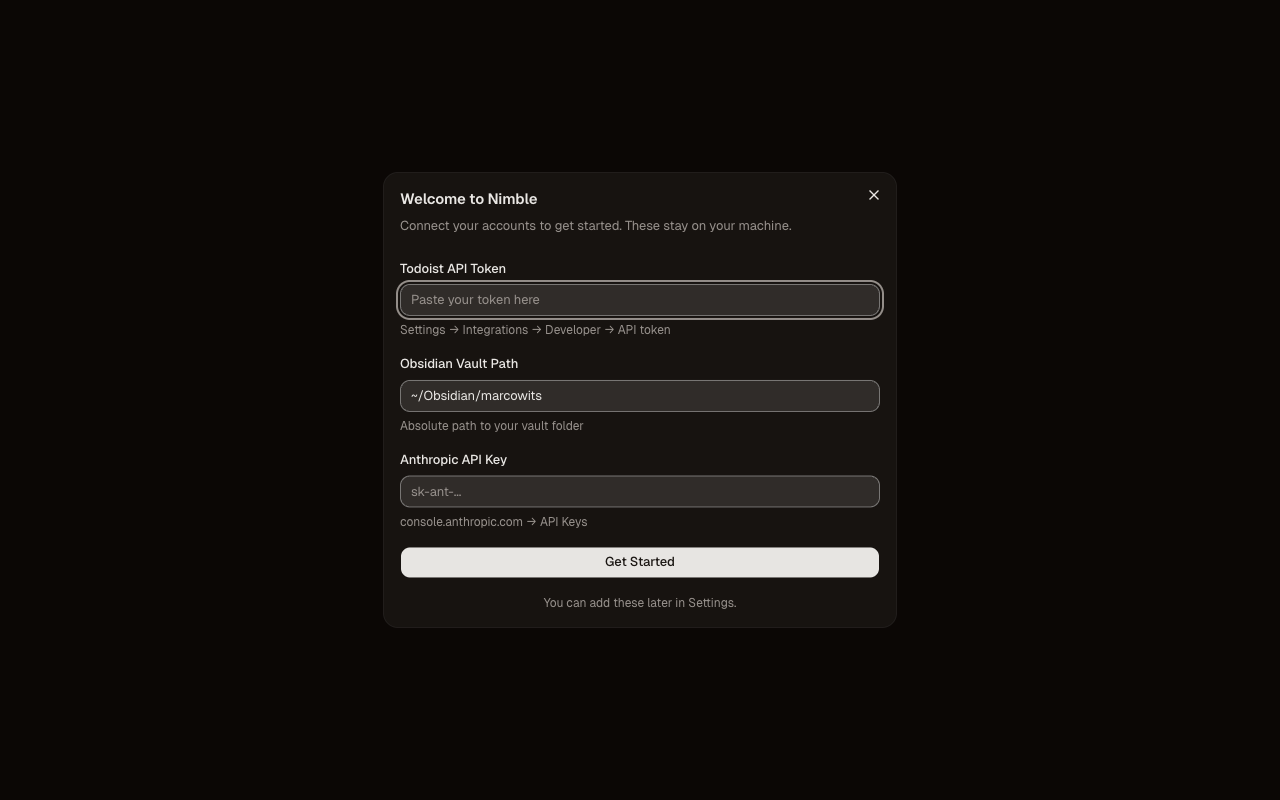
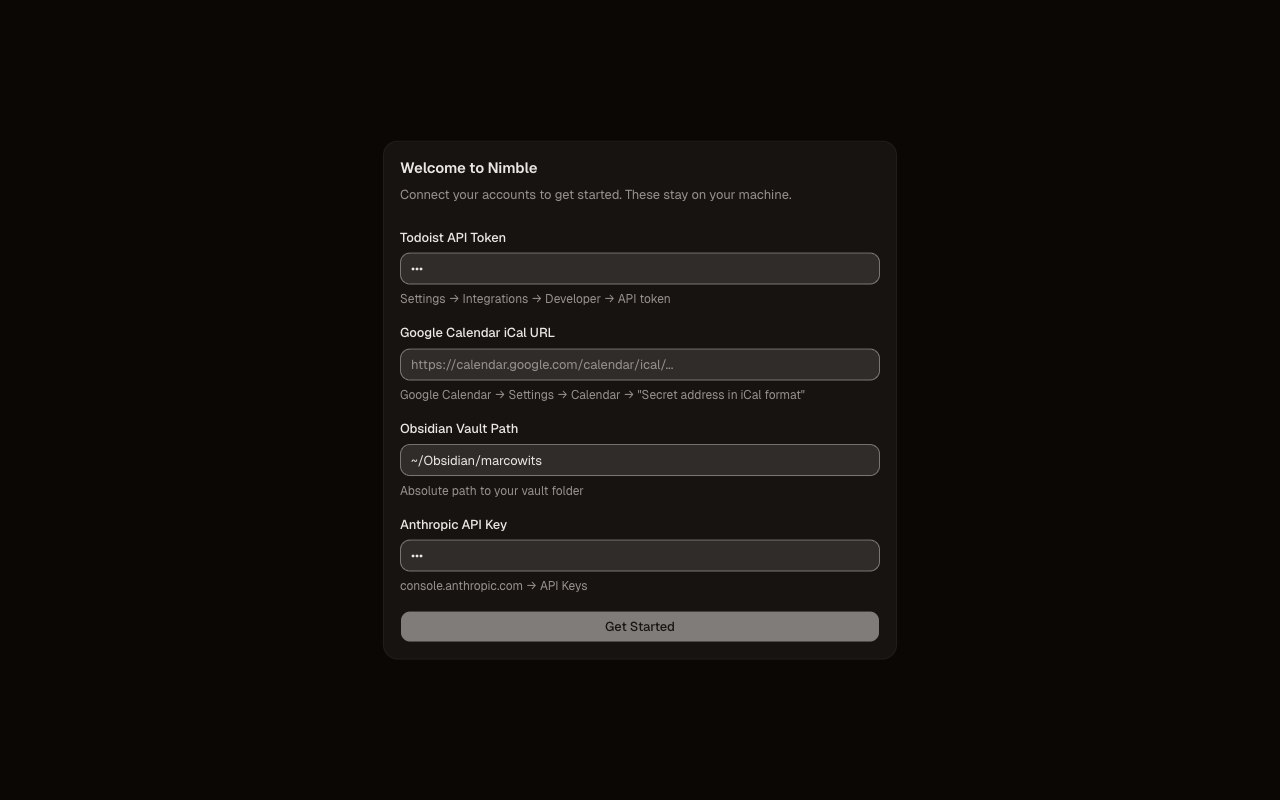
fix(b5): restore setup gate until Rust drops the iCal requirement; section offsets (§3.2)
Review Critical: check_setup_complete still requires ical_feed_url, so the
skippable setup reappeared on every launch. Restore the base gate (iCal
field, all four required), hide the close X, and ignore Escape / outside
click. Gate keys pinned to the Rust REQUIRED_SETTINGS by a node test.
P1-4 re-queued as a Rust change.

Also: standalone Backups / Reminders / Phone alerts sections get the shared
scroll offset; Maintenance sync tools re-read status on each expand.
Findings: P1-4 (reverted), P2-14, review minors 1, 3, 5.

Changed region(s): [[0.3125, 0.1875, 0.6875, 0.8125]]

diff --git a/apps/desktop/src/components/setup/SetupDialog.tsx b/apps/desktop/src/components/setup/SetupDialog.tsx
@@ -12,6 +12,7 @@ import { Label } from '@/components/ui/label'
 import { Meta } from '@/components/shared/typography'
 import { useDataProvider } from '@/services/provider-context'
 import { settingsMessage } from '@/lib/settingsMessage'
+import { isSetupReady } from '@/lib/setupGate'
 
 interface SetupDialogProps {
   open: boolean
@@ -33,6 +34,12 @@ const SETUP_FIELDS: SetupField[] = [
     placeholder: 'Paste your token here',
     help: 'Settings → Integrations → Developer → API token',
     type: 'password',
+  },
+  {
+    key: 'ical_feed_url',
+    label: 'Google Calendar iCal URL',
+    placeholder: 'https://calendar.google.com/calendar/ical/...',
+    help: 'Google Calendar → Settings → Calendar → "Secret address in iCal format"',
   },
   {
     key: 'obsidian_vault_path',
@@ -57,10 +64,12 @@ export function SetupDialog({ open, onComplete }: SetupDialogProps) {
   const [saving, setSaving] = useState(false)
   const [error, setError] = useState<string | null>(null)
 
-  // Nothing is required (setup P1-4): the vault path has a default and every
-  // field can be filled later under Settings. Whatever IS filled gets saved.
+  // Every field is required until the Rust launch check stops reading
+  // ical_feed_url (see lib/setupGate.ts); otherwise setup reappears each launch.
+  const ready = isSetupReady(values)
+
   async function handleSave() {
-    if (saving) return
+    if (saving || !ready) return
     setSaving(true)
     setError(null)
     try {
@@ -79,11 +88,12 @@ export function SetupDialog({ open, onComplete }: SetupDialogProps) {
   }
 
   return (
-    // Setup is skippable, so the close control and Escape are real: both
-    // run the same save-what's-filled path as the button (settings P2-14).
-    <Dialog open={open} onOpenChange={(next) => { if (!next) void handleSave() }}>
+    // Setup is blocking: no close control, and Escape / outside click are
+    // ignored (open is controlled, no onOpenChange). Only Get started completes.
+    <Dialog open={open}>
       <DialogContent
         className="sm:max-w-lg"
+        showCloseButton={false}
       >
         <DialogHeader>
           <DialogTitle className="text-title">Welcome to Nimble</DialogTitle>
@@ -120,12 +130,11 @@ export function SetupDialog({ open, onComplete }: SetupDialogProps) {
 
           <Button
             onClick={handleSave}
-            disabled={saving}
+            disabled={!ready || saving}
             className="w-full"
           >
             {saving ? 'Saving...' : 'Get started'}
           </Button>
-          <Meta as="p" className="text-center">You can add these later in Settings.</Meta>
         </div>
       </DialogContent>
     </Dialog>

diff --git a/apps/desktop/src/components/pages/SettingsPage.tsx b/apps/desktop/src/components/pages/SettingsPage.tsx
@@ -1373,6 +1373,7 @@ export function SettingsPage() {
   const [resetting, setResetting] = useState(false)
   const [updateStatus, setUpdateStatus] = useState<UpdateStatus | null>(null)
   const [checking, setChecking] = useState(false)
+  const [maintenanceOpen, setMaintenanceOpen] = useState(false)
 
   const backupSupported = dp.backup.supported
   const remindersSupported = dp.reminders.supported
@@ -1786,7 +1787,10 @@ export function SettingsPage() {
           title="Maintenance"
           description="One-time migrations and sync tools. Nothing here is part of a normal day."
         />
-        <details className="group rounded-lg border">
+        <details
+          className="group rounded-lg border"
+          onToggle={(e) => setMaintenanceOpen(e.currentTarget.open)}
+        >
           <summary className="flex cursor-pointer list-none items-center justify-between rounded-lg px-4 py-2 text-body transition-colors duration-(--transition-fast) hover:bg-muted [&::-webkit-details-marker]:hidden">
             Maintenance tools
             <ChevronDown className="size-3 text-muted-foreground transition-transform duration-(--transition-fast) group-open:rotate-180" />
@@ -1821,7 +1825,9 @@ export function SettingsPage() {
 
             <div id="sync-tools" className="space-y-4">
               <SectionHeader as="h3" title="Sync tools" />
-              <SyncMaintenance />
+              {/* Mounted per expand so it re-reads sync status each time
+                  (Turso may have been set up under Sync since). */}
+              {maintenanceOpen && <SyncMaintenance />}
             </div>
           </div>
         </details>
@@ -1861,7 +1867,9 @@ export function SettingsPage() {
       </nav>
 
       {/* Main content — same array, same order */}
-      <div className="flex-1 min-w-0 space-y-8">
+      {/* Section offset on every direct child, so the standalone Backups /
+          Reminders / Phone alerts components land like the rest. */}
+      <div className="flex-1 min-w-0 space-y-8 [&>section]:scroll-mt-[calc(var(--page-header-h)+2rem)]">
         {sections.map((s, i) => (
           <Fragment key={s.id}>
             {i > 0 && !s.standalone && <Separator />}

diff --git a/apps/desktop/src/lib/setupGate.ts b/apps/desktop/src/lib/setupGate.ts
@@ -1,0 +1,15 @@
+/* First-run setup gate. These must match REQUIRED_SETTINGS in
+   nimble-core/src/db/settings.rs: App.tsx re-runs check_setup_complete at
+   every launch, so a setup that saves less than this reappears forever.
+   tests/setupGate.test.mjs pins the two lists together. Relaxing the gate
+   (e.g. dropping ical_feed_url, setup P1-4) needs the Rust change first. */
+export const SETUP_REQUIRED_KEYS = [
+  'todoist_api_token',
+  'ical_feed_url',
+  'obsidian_vault_path',
+  'anthropic_api_key',
+] as const
+
+export function isSetupReady(values: Record<string, string | undefined>): boolean {
+  return SETUP_REQUIRED_KEYS.every((key) => Boolean(values[key]?.trim()))
+}
